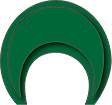
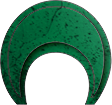
New graphics!

diff --git a/game/player.py b/game/player.py
@@ -112,10 +112,7 @@ class PlayerInfo:
     """ Draws the player (including resource HUD and time) """
     def draw(self):
         # Draw HUD
-        Constants.screen.fill((0,0,0), pygame.Rect(0, 0, 600, 120))
-        Constants.screen.blit(Constants.config.getGameImage("CircleTarget"), [10, 10])
-        Constants.screen.blit(Constants.config.getGameImage("SquareTarget"), [132, 10])
-        Constants.screen.blit(Constants.config.getGameImage("TriangleTarget"), [254, 10])
+        Constants.screen.blit(Constants.config.getGameImage("Banner"), [0,0])
         
         font = Font(os.path.join("assets", "astron boy.ttf"), 48)
         cString = str(self.resources[ShapeEnum.CIRCLE]) if self.resources[ShapeEnum.CIRCLE] >= 0 else "-"

diff --git a/game/configuration.py b/game/configuration.py
@@ -21,7 +21,8 @@ class Configuration:
             "CircleTarget": self._getImageCache("CircleTarget"),
             "SquareTarget": self._getImageCache("SquareTarget"),
             "TriangleTarget": self._getImageCache("TriangleTarget"),
-            "Background": self._getImageCache("Background")
+            "Background": self._getImageCache("Background"),
+            "Banner": self._getImageCache("Banner")
         }
         self.generator = {
             "TierOne": float(self.config["GENERATOR"]["TierOne"]),
